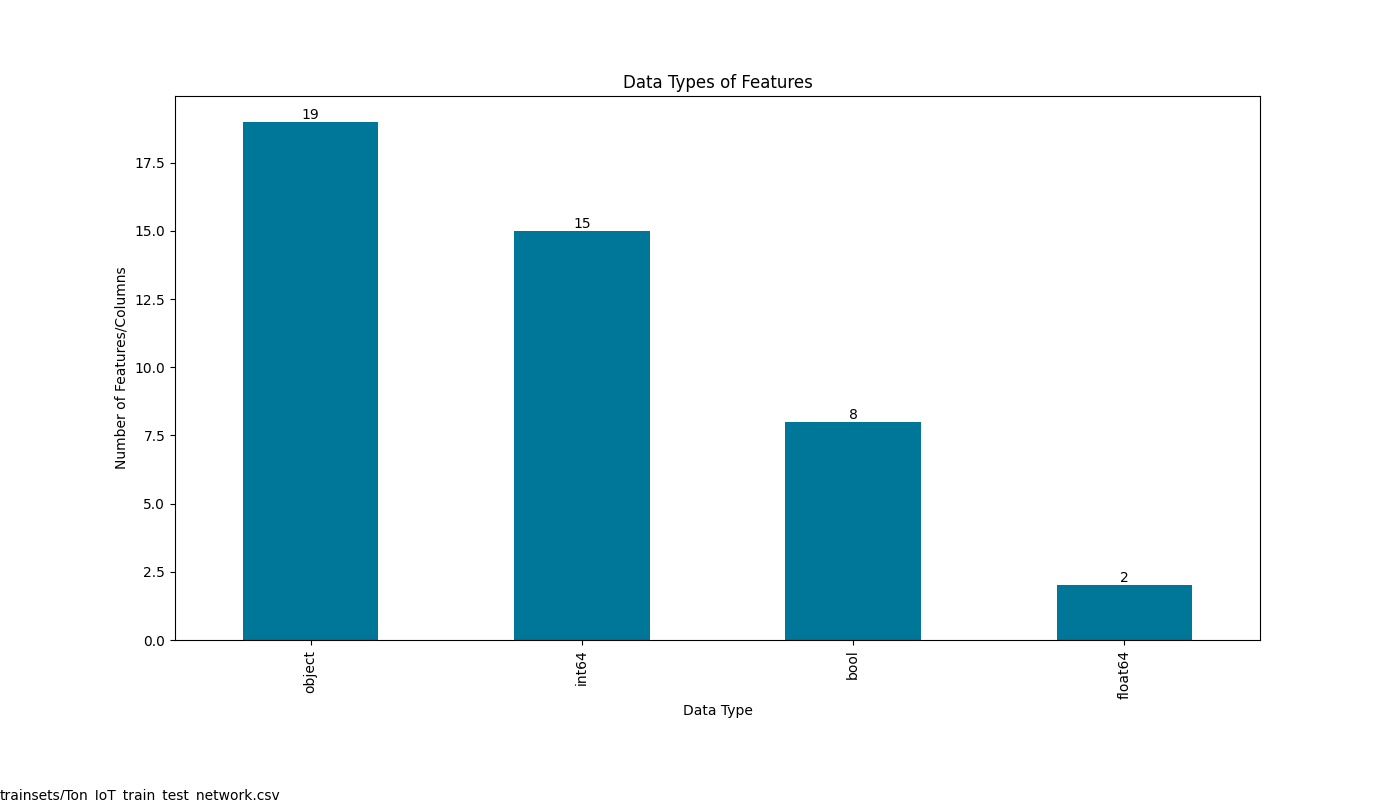
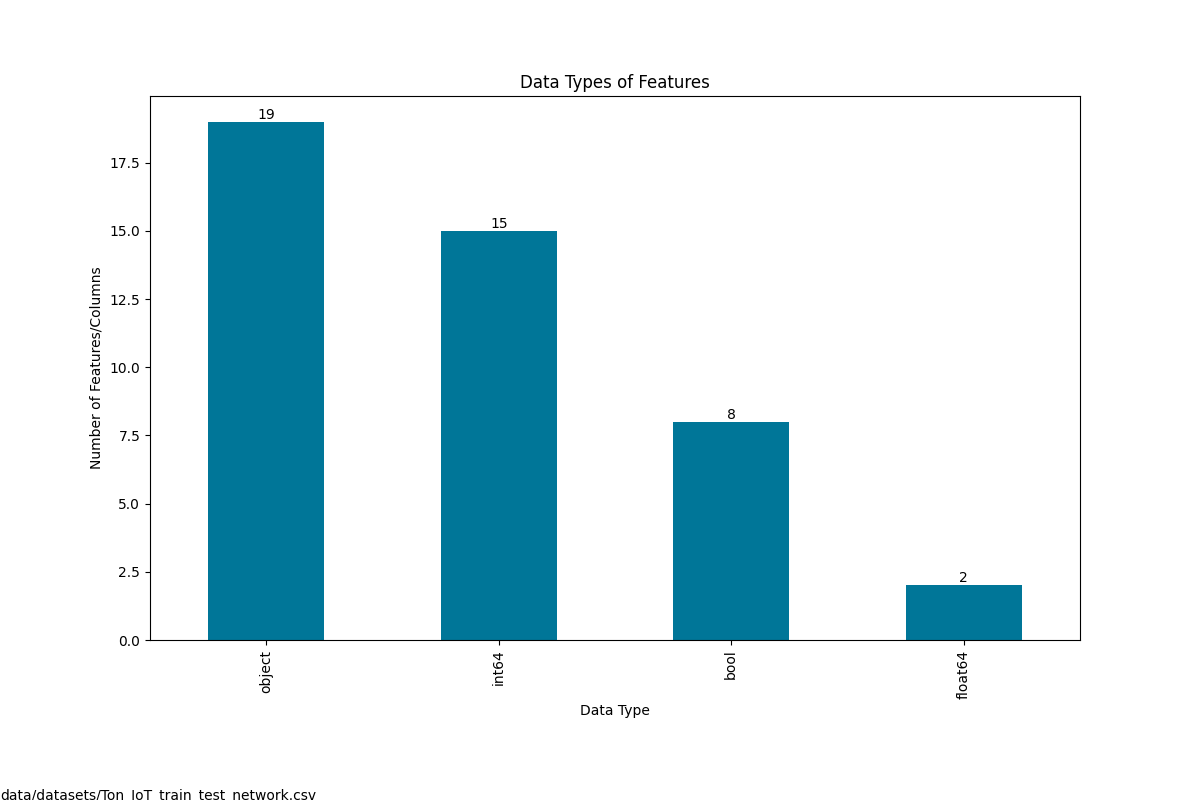
Optimize and combine graphics

diff --git a/1-clean.py b/1-clean.py
@@ -61,7 +61,7 @@ if args.verbose > 0:
         print(f"{column}: {df[column].dtype}")
 
 # Plot the data types of each feature/column
-plt.figure(figsize=(14, 8))
+plt.figure(figsize=(12, 8))
 df.dtypes.value_counts().plot(kind="bar", color="#007698")
 plt.title("Data Types of Features")
 plt.xlabel("Data Type")
@@ -100,14 +100,16 @@ else:
 
 
 # same for integer values
-plt.figure(figsize=(14, 8))
+plt.figure(figsize=(12, 8))
 unique_counts = df.select_dtypes(include=["int64"]).nunique()
 unique_counts.plot(kind="bar", color="#007698")
 plt.title("Number of Unique Items per Integer Features")
 plt.xlabel("Feature/Column")
 plt.ylabel("Number of Unique Items")
-plt.figtext(0, 0, f"{args.data_set}", fontsize=10)
+plt.figtext(0.01, 0.01, f"{args.data_set}", fontsize=8)
 plt.subplots_adjust(bottom=0.2)
+plt.tight_layout()
+
 for i, count in enumerate(unique_counts):
     plt.text(i, count, str(count), ha="center", va="bottom")
 
@@ -117,43 +119,41 @@ else:
     plt.savefig("graphics/features-integer-unique.png")
 
 # Print the unique count of the 'type'/'label' field
-plt.figure(figsize=(14, 8))
+fig, (ax1, ax2) = plt.subplots(1, 2, figsize=(14, 7), gridspec_kw={'width_ratios': [3, 1]})
+
+# Multiclass Class Distribution
 type_counts = df["type"].value_counts()
-type_counts.plot(kind="bar", color=["#007698"])
-plt.title("Multiclass Class Distribution")
-plt.xlabel("Type")
-plt.ylabel("Count")
-plt.figtext(0, 0, f"{args.data_set}", fontsize=8)
-plt.ylim(0, type_counts.max() * 1.1)
-plt.subplots_adjust(bottom=0.2)
+type_counts.plot(kind="bar", color=["#007698"], ax=ax1)
+ax1.set_title("Multiclass Class Distribution")
+ax1.set_xlabel("Type")
+ax1.set_ylabel("Count")
+ax1.set_ylim(0, type_counts.max() * 1.1)
 for i, count in enumerate(type_counts):
     percentage = count / type_counts.sum() * 100
-    plt.text(
-        i, count, f"{count}\n{percentage:.2f}%", ha="center", va="bottom", fontsize=10
-    )
+    ax1.text(i, count, f"{percentage:.2f}%\n{count}", ha="center", va="bottom", fontsize=10)
+
+# Binary Class Distribution
+type_counts = df["label"].value_counts()
+type_counts.index = type_counts.index.map({False: "0 - benign", True: "1 - attack"})
+type_counts.plot(kind="bar", color=["#007698"], ax=ax2)
+ax2.set_title("Binary Class Distribution")
+ax2.set_xlabel("Type")
+ax2.set_ylabel("Count")
+ax2.set_ylim(0, type_counts.max() * 1.1)
+ax2.set_xticks(range(len(type_counts)))
+ax2.set_xticklabels(type_counts.index, rotation=0)
+for i, count in enumerate(type_counts):
+    percentage = count / type_counts.sum() * 100
+    ax2.text(i, count, f"{percentage:.2f}%\n{count}", ha="center", va="bottom", fontsize=10)
+
+plt.figtext(0.01, 0.01, f"{args.data_set}", fontsize=8)
+plt.subplots_adjust(bottom=0.2)
+plt.tight_layout()
 
 if args.show:
     plt.show()
 else:
-    plt.savefig("graphics/multiclass-distribution.png")
-
-print(df["type"].value_counts(normalize=True))
-
-plt.figure(figsize=(8, 8))
-type_counts = df["label"].value_counts()
-type_counts.index = type_counts.index.map({False: "0 - benign", True: "1 - attack"})
-type_counts.plot(kind="bar", color=["#007698"])
-plt.title("Binary Class Distribution")
-plt.xlabel("Type")
-plt.ylabel("Count")
-plt.xticks(rotation=0)
-plt.figtext(0, 0, f"{args.data_set}", fontsize=8)
-plt.subplots_adjust(bottom=0.2)
-for i, count in enumerate(type_counts):
-    percentage = count / type_counts.sum() * 100
-    plt.text(
-        i, count, f"{count} ({percentage:.2f}%)", ha="center", va="bottom", fontsize=10
-    )
+    plt.savefig("graphics/label-distributions.png")
 
 # or pie chart?
 # plt.figure(figsize=(7, 7))
@@ -166,12 +166,7 @@ for i, count in enumerate(type_counts):
 # plt.pie(type_counts, autopct='%1.1f%% ')
 
 
-if args.show:
-    plt.show()
-else:
-    plt.savefig("graphics/binary-distribution.png")
-del plt
-
+print(df["type"].value_counts(normalize=True))
 print(df["label"].value_counts(normalize=True))
 
 
